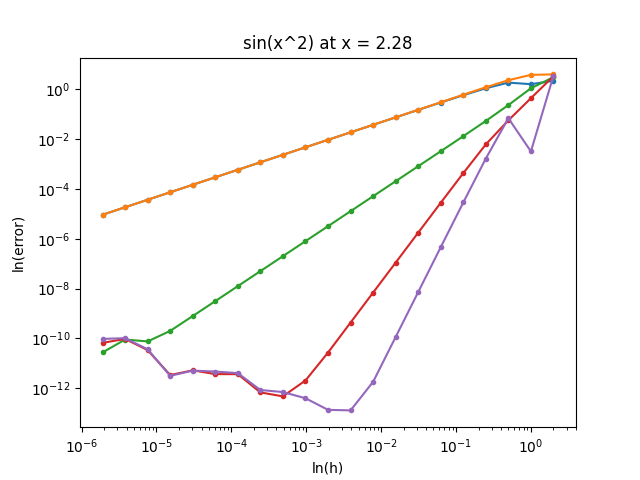
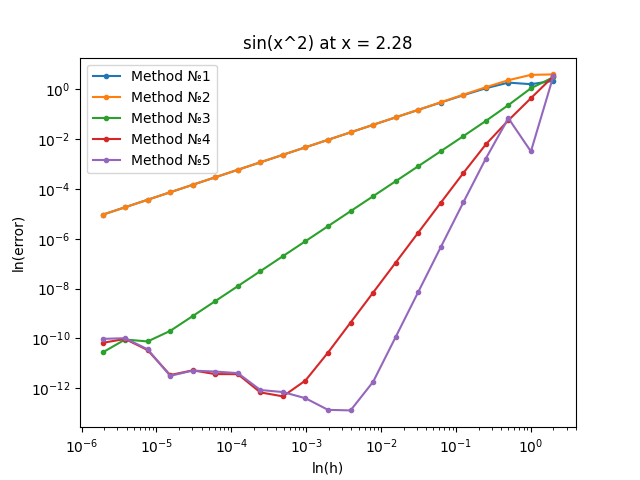
lab-1: lab done, add legend to graphs & improved Makefile

Changed region(s): [[0.125, 0.125, 0.3438, 0.3438]]

diff --git a/lab-1-numerical_differentiation/scripts/plot.py b/lab-1-numerical_differentiation/scripts/plot.py
@@ -39,9 +39,15 @@ def build_graph(title: str, graph_name: str, graph_data):
     dots_num = len(graph_data[num_der_idx])
     step_values = get_step_values(dots_num)
 
-    plt.plot(step_values, graph_data[num_der_idx], ".-")
+    plt.plot(
+      step_values, 
+      graph_data[num_der_idx], 
+      ".-", 
+      label = "Method №{}".format(num_der_idx + 1)
+      )
+    plt.legend()
 
-  plt.savefig("img/{}.png".format(graph_name))
+  plt.savefig("res/{}.png".format(graph_name))
   plt.clf()
 
 #======================================
@@ -73,7 +79,7 @@ while line_idx < line_num and comput_res[line_idx][0] == "name":
 
   build_graph(
     str_formula + " at x = {}".format(x_value), 
-    str(graph_ct), 
+    str_formula, 
     graph_data
     )
 

diff --git a/lab-1-numerical_differentiation/README.md b/lab-1-numerical_differentiation/README.md
@@ -32,7 +32,9 @@ $$5. {3 \over 2}{f(x+h)-f(x-h) \over 2h} - {3 \over 5}{f(x+2h)-f(x-2h) \over 4h}
  - Склонировать данный репозиторий и перейти в директорию <code>lab-1-numerical_differentiation</code>
    <code>git clone https://github.com/RustamSubkhankulov/computational-math.git</code>
    <code>cd lab-1-numerical_differentiation</code>
- - Воспользоваться <code>make plots</code>, чтобы собрать проект, провести вычисления и построить графики.
+ - Воспользоваться <code>make plots</code>, чтобы собрать проект, провести вычисления и построить графики. 
+
+Все выходные файлы: графики и результаты вычислений в текстовом формате сохраняются в директории <code>res/</code> относительно директории работы. 
 
 ## Результаты
 Далее представлены построенные программой графики. По обеим осям установлен логарифмический масштаб, каждый график содержит данные для всех формул численного дифференцирования для каждой функции.
